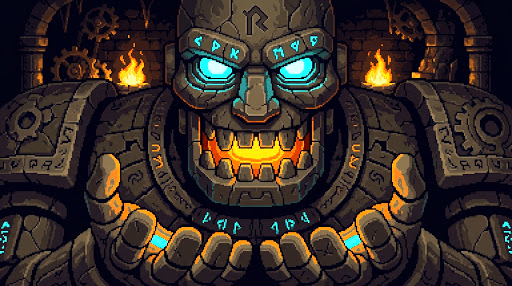
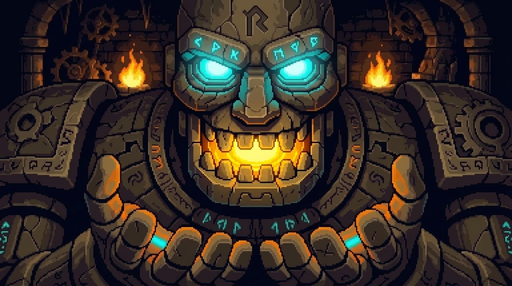
feat(webui): replace background animation with 8-frame Nano Banana breath loop

diff --git a/first_mate/webui/templates/dashboard.html b/first_mate/webui/templates/dashboard.html
@@ -2027,19 +2027,21 @@
                 }
             });
 
-            // 16-bit Low Framerate Animated Golem Background Loop (~3 FPS)
+            // 16-bit Low Framerate Animated Golem Background Loop (8 frames, ~3 FPS)
             (function initGolemAnimation() {
                 const colossusEl = document.getElementById('colossus-img');
                 if (!colossusEl) return;
 
-                // Frame 0 is the original background PNG; frames 1-5 provide 16-bit breathing & runic glow
+                // Frame 0 is the original background PNG; frames 1-7 provide an authentic 8-frame Nano Banana breath loop
                 const frames = [
                     '/colossus.png',
                     '/static/colossus_1.png',
                     '/static/colossus_2.png',
                     '/static/colossus_3.png',
                     '/static/colossus_4.png',
-                    '/static/colossus_5.png'
+                    '/static/colossus_5.png',
+                    '/static/colossus_6.png',
+                    '/static/colossus_7.png'
                 ];
 
                 // Preload frames to eliminate flicker
@@ -2049,11 +2051,11 @@
                 });
 
                 let frameIdx = 0;
-                // ~3 FPS low framerate animation (330ms per frame)
+                // ~3 FPS low framerate breathing cadence (320ms per frame = ~2.56s per breath cycle)
                 setInterval(() => {
                     frameIdx = (frameIdx + 1) % frames.length;
                     colossusEl.src = frames[frameIdx];
-                }, 330);
+                }, 320);
             })();
 
             connectSSE();

diff --git a/golem/webui/templates/dashboard.html b/golem/webui/templates/dashboard.html
@@ -2027,19 +2027,21 @@
                 }
             });
 
-            // 16-bit Low Framerate Animated Golem Background Loop (~3 FPS)
+            // 16-bit Low Framerate Animated Golem Background Loop (8 frames, ~3 FPS)
             (function initGolemAnimation() {
                 const colossusEl = document.getElementById('colossus-img');
                 if (!colossusEl) return;
 
-                // Frame 0 is the original background PNG; frames 1-5 provide 16-bit breathing & runic glow
+                // Frame 0 is the original background PNG; frames 1-7 provide an authentic 8-frame Nano Banana breath loop
                 const frames = [
                     '/colossus.png',
                     '/static/colossus_1.png',
                     '/static/colossus_2.png',
                     '/static/colossus_3.png',
                     '/static/colossus_4.png',
-                    '/static/colossus_5.png'
+                    '/static/colossus_5.png',
+                    '/static/colossus_6.png',
+                    '/static/colossus_7.png'
                 ];
 
                 // Preload frames to eliminate flicker
@@ -2049,11 +2051,11 @@
                 });
 
                 let frameIdx = 0;
-                // ~3 FPS low framerate animation (330ms per frame)
+                // ~3 FPS low framerate breathing cadence (320ms per frame = ~2.56s per breath cycle)
                 setInterval(() => {
                     frameIdx = (frameIdx + 1) % frames.length;
                     colossusEl.src = frames[frameIdx];
-                }, 330);
+                }, 320);
             })();
 
             connectSSE();

diff --git a/tests/test_webui_observability.py b/tests/test_webui_observability.py
@@ -287,6 +287,33 @@ class TestWebUIEndpoints(unittest.IsolatedAsyncioTestCase):
             self.assertIn("Mouth Agent", html)
             self.assertIn("Hand Agents Grid", html)
 
+    async def test_colossus_frames_and_expand_cta(self):
+        """Verify 8-frame Nano Banana breath animation sequence and expand CTAs."""
+        async with self.session.get(f"{self.base_url}/") as resp:
+            html = await resp.text()
+            self.assertIn("btn-expand", html)
+            self.assertIn("terminal-expanded", html)
+            self.assertIn("initGolemAnimation", html)
+
+        # Base image
+        async with self.session.get(f"{self.base_url}/colossus.png") as resp:
+            self.assertEqual(resp.status, 200)
+            self.assertEqual(resp.headers.get("Content-Type"), "image/png")
+            await resp.read()
+
+        # 8 Frames
+        for i in range(8):
+            async with self.session.get(f"{self.base_url}/colossus_{i}.png") as resp:
+                self.assertEqual(resp.status, 200)
+                self.assertEqual(resp.headers.get("Content-Type"), "image/png")
+                await resp.read()
+
+        for i in range(1, 8):
+            async with self.session.get(f"{self.base_url}/static/colossus_{i}.png") as resp:
+                self.assertEqual(resp.status, 200)
+                self.assertEqual(resp.headers.get("Content-Type"), "image/png")
+                await resp.read()
+
     async def test_health_endpoints(self):
         """Verify GET /health and GET /healthz return status ok."""
         for path in ["/health", "/healthz"]:
